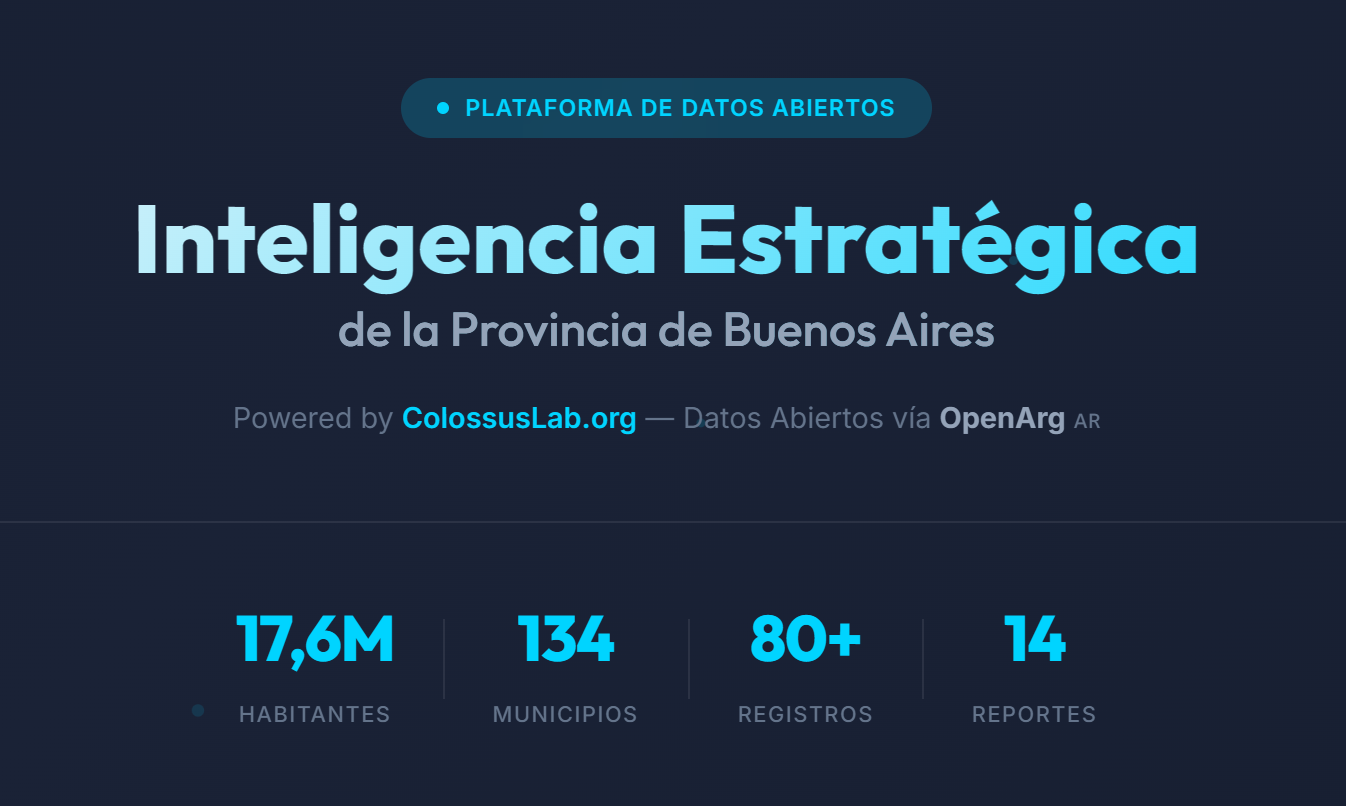
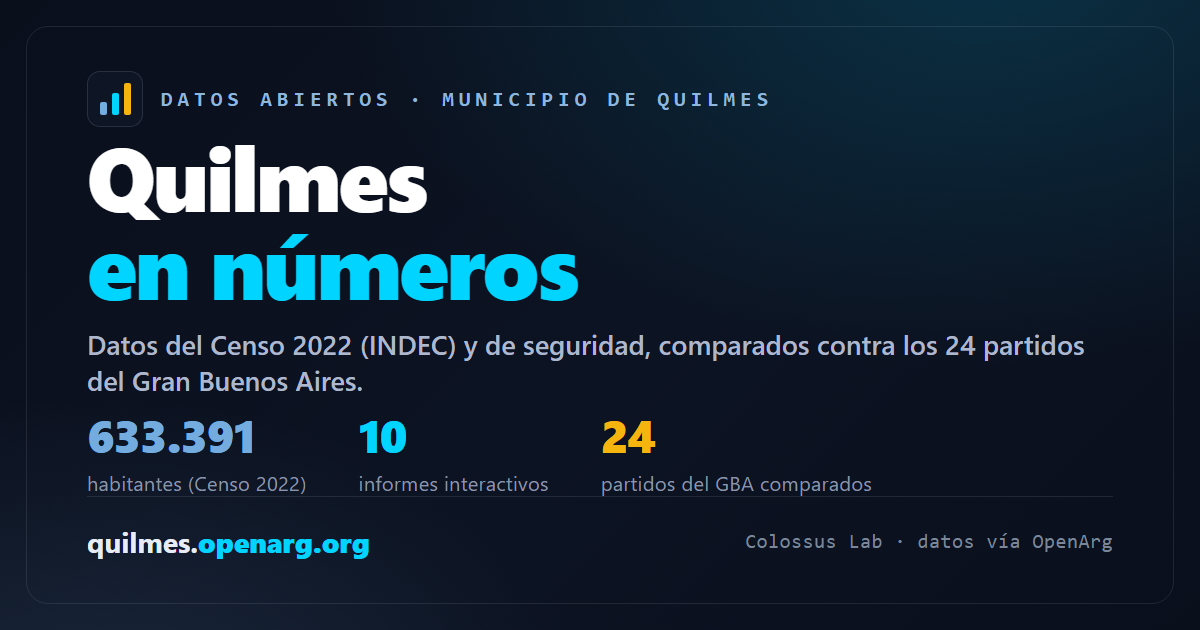
Revisión final: fix de datos SNIC, performance, OG image y a11y
Datos:
- SNIC estafas virtuales: el regex /Estafas.*virtual/i contaba dos
  categorías (incluía "no incluye virtuales"). Ahora /virtualmente/i →
  337 en 2024 (antes 720). Prosa actualizada.
- Víctimas SNIC 2024 unificadas a 5.384 (varones 51,0% · mujeres 46,1% ·
  sin determinar 2,9%); KPI de % corregido sobre el total real.
- estructura.md: promedio de fecundidad 1,4 (no 1,0).

Performance:
- Lazy-load de ReportView + manualChunks (nivo/markdown/react-vendor):
  la Landing baja de ~245 a ~95 kB gzip; Nivo y markdown se cargan al
  abrir un informe. target: es2022.
- Quitadas dependencias sin uso (@nivo/geo, @nivo/heatmap, @nivo/tooltip,
  d3-geo, topojson-client, papaparse + @types); xlsx → devDependencies.

UI / SEO / a11y:
- Nuevo og-image.png 1200×630 de Quilmes (preview de WhatsApp/Twitter).
- favicon.svg propio (antes /favicon.ico daba 404).
- Meta tags y title realineados al enfoque ciudadano.
- Fix del warning de React (background→backgroundImage) en ReportView
  y KPICounter.
- Drawer mobile: cierre con Escape + aria-expanded/aria-controls.
- .well-known/security.txt y engines.node.

diff --git a/index.html b/index.html
@@ -3,30 +3,31 @@
 <head>
   <meta charset="UTF-8" />
   <meta name="viewport" content="width=device-width, initial-scale=1.0" />
-  <meta name="description" content="Dashboard Estratégico del Municipio de Quilmes — Análisis interactivo de datos abiertos para la toma de decisiones municipales." />
+  <meta name="description" content="Quilmes en números: 10 informes de datos abiertos sobre el partido — Censo 2022 (INDEC), seguridad (SNIC) y muertes viales (SAT), comparados contra los 24 partidos del Gran Buenos Aires." />
   <link rel="canonical" href="https://quilmes.openarg.org" />
-  <title>Dashboard Quilmes — Inteligencia Estratégica Municipal</title>
+  <title>Dashboard Quilmes — Datos abiertos del partido</title>
 
   <!-- Open Graph Meta Tags para WhatsApp, Facebook, LinkedIn, etc. -->
-  <meta property="og:title" content="Dashboard Quilmes - Inteligencia Estratégica Municipal" />
-  <meta property="og:description" content="Plataforma de datos abiertos con análisis interactivo del Municipio de Quilmes." />
+  <meta property="og:title" content="Dashboard Quilmes — Datos abiertos del partido" />
+  <meta property="og:description" content="Quilmes en números: 10 informes sobre el partido con datos del Censo 2022 y estadísticas de seguridad, comparados contra los 24 partidos del GBA." />
   <meta property="og:image" content="https://quilmes.openarg.org/og-image.png" />
   <meta property="og:image:width" content="1200" />
   <meta property="og:image:height" content="630" />
   <meta property="og:type" content="website" />
   <meta property="og:url" content="https://quilmes.openarg.org" />
+  <meta property="og:locale" content="es_AR" />
 
   <!-- Twitter Meta Tags -->
   <meta name="twitter:card" content="summary_large_image" />
-  <meta name="twitter:title" content="Dashboard Quilmes - Inteligencia Estratégica Municipal" />
-  <meta name="twitter:description" content="Plataforma de datos abiertos con análisis interactivo del Municipio de Quilmes." />
+  <meta name="twitter:title" content="Dashboard Quilmes — Datos abiertos del partido" />
+  <meta name="twitter:description" content="Quilmes en números: 10 informes sobre el partido con datos del Censo 2022 y estadísticas de seguridad." />
   <meta name="twitter:image" content="https://quilmes.openarg.org/og-image.png" />
   <link rel="preconnect" href="https://fonts.googleapis.com" />
   <link rel="preconnect" href="https://fonts.gstatic.com" crossorigin />
   <link href="https://fonts.googleapis.com/css2?family=Inter:wght@300;400;500;600;700&family=Outfit:wght@500;600;700;800&family=Familjen+Grotesk:wght@400;500;600;700&family=JetBrains+Mono:wght@400;500;700&display=swap" rel="stylesheet" />
 
   <!-- Favicon y Apple Touch Icon -->
-  <link rel="icon" type="image/png" href="/favicon.ico" />
+  <link rel="icon" type="image/svg+xml" href="/favicon.svg" />
   <link rel="apple-touch-icon" href="/og-image.png" />
 </head>
 <body>

diff --git a/src/App.tsx b/src/App.tsx
@@ -1,11 +1,16 @@
 import { BrowserRouter, Routes, Route, useLocation } from 'react-router-dom';
 import { Layout } from './components/layout/Layout';
 import { Landing } from './pages/Landing';
-import { ReportView } from './pages/ReportView';
 import { IntroHero } from './components/ui/IntroHero';
 import { useFirstVisit } from './hooks/useFirstVisit';
-import React from 'react';
+import React, { lazy, Suspense } from 'react';
 import { Analytics } from '@vercel/analytics/react';
+
+// ReportView arrastra Nivo + react-markdown (la parte pesada del bundle).
+// Lo cargamos lazy para que la Landing ("/") no descargue nada de eso.
+const ReportView = lazy(() =>
+  import('./pages/ReportView').then(m => ({ default: m.ReportView })),
+);
 
 // Solo mostramos el intro en la home. En rutas profundas (alguien
 // compartió un link a un informe) se muestra directo el contenido.
@@ -84,10 +89,18 @@ export default function App() {
       <BrowserRouter>
         <FirstVisitIntro />
         <Layout>
-          <Routes>
-            <Route path="/" element={<Landing />} />
-            <Route path="/*" element={<ReportView />} />
-          </Routes>
+          <Suspense
+            fallback={
+              <div className="text-center py-20" style={{ color: 'var(--text-tertiary)' }}>
+                Cargando…
+              </div>
+            }
+          >
+            <Routes>
+              <Route path="/" element={<Landing />} />
+              <Route path="/*" element={<ReportView />} />
+            </Routes>
+          </Suspense>
         </Layout>
       </BrowserRouter>
       <Analytics />

diff --git a/src/components/layout/Layout.tsx b/src/components/layout/Layout.tsx
@@ -42,7 +42,7 @@ export function Layout({ children }: { children: React.ReactNode }) {
 
 function TopBar() {
   const location = useLocation();
-  const { toggleSidebar } = useStore();
+  const { toggleSidebar, sidebarOpen } = useStore();
   const isHome = location.pathname === '/';
 
   return (
@@ -66,6 +66,8 @@ function TopBar() {
             <button
               onClick={toggleSidebar}
               aria-label="Menú de navegación"
+              aria-expanded={sidebarOpen}
+              aria-controls="mobile-nav"
               className="p-2 rounded-lg hover:opacity-80 transition-opacity lg:hidden"
               style={{ color: 'var(--text-secondary)' }}
             >
@@ -124,6 +126,15 @@ function Sidebar() {
   const poblacion = getPoblacionReports();
   const sectoriales = getSectorialReports();
 
+  // Cerrar con Escape (accesibilidad por teclado).
+  useEffect(() => {
+    const onKey = (e: KeyboardEvent) => {
+      if (e.key === 'Escape') setSidebarOpen(false);
+    };
+    document.addEventListener('keydown', onKey);
+    return () => document.removeEventListener('keydown', onKey);
+  }, [setSidebarOpen]);
+
   return (
     <>
       {/* Backdrop */}
@@ -141,6 +152,8 @@ function Sidebar() {
       />
       {/* Panel */}
       <aside
+        id="mobile-nav"
+        aria-label="Navegación de informes"
         className="slide-in-left"
         style={{
           position: 'fixed',

diff --git a/src/components/ui/KPICounter.tsx b/src/components/ui/KPICounter.tsx
@@ -72,9 +72,9 @@ export function KPICounter({ value, formatted, label, unit, status }: KPICounter
       <span
         className="kpi-value"
         style={status === 'critical'
-          ? { background: 'linear-gradient(135deg, #ef4444, #f97316)', WebkitBackgroundClip: 'text', WebkitTextFillColor: 'transparent', backgroundClip: 'text' }
+          ? { backgroundImage: 'linear-gradient(135deg, #ef4444, #f97316)', WebkitBackgroundClip: 'text', WebkitTextFillColor: 'transparent', backgroundClip: 'text' }
           : status === 'good'
-            ? { background: 'linear-gradient(135deg, #10b981, #06b6d4)', WebkitBackgroundClip: 'text', WebkitTextFillColor: 'transparent', backgroundClip: 'text' }
+            ? { backgroundImage: 'linear-gradient(135deg, #10b981, #06b6d4)', WebkitBackgroundClip: 'text', WebkitTextFillColor: 'transparent', backgroundClip: 'text' }
             : undefined
         }
       >

diff --git a/vite.config.ts b/vite.config.ts
@@ -12,4 +12,19 @@ export default defineConfig({
       '@': '/src',
     },
   },
+  build: {
+    target: 'es2022',
+    rollupOptions: {
+      output: {
+        // Separamos vendors pesados en chunks propios: mejor caching entre
+        // deploys y, combinado con el lazy-load de ReportView, Nivo/markdown
+        // solo se descargan al abrir un informe (no en la Landing).
+        manualChunks: {
+          nivo: ['@nivo/bar', '@nivo/line', '@nivo/pie', '@nivo/core'],
+          markdown: ['react-markdown', 'remark-gfm'],
+          'react-vendor': ['react', 'react-dom', 'react-router-dom'],
+        },
+      },
+    },
+  },
 })

diff --git a/src/pages/ReportView.tsx b/src/pages/ReportView.tsx
@@ -68,7 +68,7 @@ function ReportContent({ reportEntry }: { reportEntry: ReportEntry }) {
                 className="report-hero-title"
                 style={{
                   fontFamily: 'var(--font-heading)',
-                  background: `linear-gradient(135deg, ${reportEntry.color}, var(--accent-cyan))`,
+                  backgroundImage: `linear-gradient(135deg, ${reportEntry.color}, var(--accent-cyan))`,
                   WebkitBackgroundClip: 'text',
                   WebkitTextFillColor: 'transparent',
                   backgroundClip: 'text',

diff --git a/public/reports/seguridad/snic.md b/public/reports/seguridad/snic.md
@@ -14,7 +14,7 @@
 |---|---:|
 | **Hechos delictivos registrados** | **18.598** |
 | **Tasa total de hechos** (suma de tasas individuales por 100K) | **2.683,1 / 100K** |
-| Víctimas registradas | 5.226 |
+| Víctimas registradas | 5.384 |
 | Variación interanual (2024 vs 2023) | **−8,5 %** |
 | Variación quinquenal (2024 vs 2019) | **+19,3 %** |
 | Variación 25 años en tasa (2024 vs 2000) | **+10,7 %** |
@@ -66,11 +66,11 @@ Las **estafas y defraudaciones asistidas virtualmente** son una categoría de in
 
 | Año | Hechos en Quilmes |
 |---:|---:|
-| 2023 | 629 |
-| **2024** | **720** |
-| Variación interanual | **+14,5 %** |
+| 2023 | 36 |
+| **2024** | **337** |
+| Variación interanual | **+836 %** |
 
-En 2024 se registraron **720 estafas virtuales en Quilmes, 14,5 % más que en 2023**. Por su incorporación reciente, no existe una serie larga que permita comparaciones de décadas, pero el crecimiento interanual marca la dirección del segmento.
+En 2024 se registraron **337 estafas virtuales en Quilmes, casi diez veces más que las 36 de 2023**. Es una categoría de incorporación muy reciente al nomenclador: la serie es todavía corta y los valores absolutos chicos, pero el salto interanual marca la irrupción del segmento.
 
 ---
 
@@ -96,14 +96,15 @@ La cantidad de homicidios dolosos en Quilmes muestra una tendencia descendente d
 
 ## 5. Víctimas registradas
 
-En 2024 el SNIC registró **5.226 víctimas en Quilmes**:
+En 2024 el SNIC registró **5.384 víctimas en Quilmes**:
 
 | Sexo | Víctimas | % |
 |---|---:|---:|
-| Varones | 2.745 | 52,5 % |
-| Mujeres | 2.481 | **47,5 %** |
+| Varones | 2.745 | 51,0 % |
+| Mujeres | 2.481 | **46,1 %** |
+| Sin determinar | 158 | 2,9 % |
 
-Las mujeres son el **47,5 % del total de víctimas**. La serie de víctimas también muestra el escalón ascendente reciente: de 3.005 en 2019 a un máximo de 5.442 en 2021, con 5.384 en 2024, cerca de los valores más altos del período.
+Las mujeres representan el **46,1 % del total de víctimas** y los varones el 51,0 % (el resto queda sin sexo registrado). La serie de víctimas muestra el escalón ascendente reciente: de 3.005 en 2019 a un máximo de 5.442 en 2021, con 5.384 en 2024, cerca de los valores más altos del período.
 
 ---
 
@@ -133,13 +134,13 @@ En la **tasa de homicidios** —relativamente robusta a la sub-denuncia, porque 
 
 2. **El registro de 2024 baja respecto del máximo de 2023**: los 18.598 hechos están 8,5 % por debajo de los 20.329 de 2023, el pico de toda la serie. Aun así, el nivel sigue 19,3 % por encima del de 2019.
 
-3. **Las estafas virtuales crecen**: 720 hechos en 2024, 14,5 % más que en 2023. Es una categoría de incorporación reciente al nomenclador, todavía chica en términos absolutos.
+3. **Las estafas virtuales irrumpen**: 337 hechos en 2024 contra 36 en 2023. Es una categoría de incorporación reciente al nomenclador, todavía chica en términos absolutos pero de crecimiento abrupto.
 
 4. **En volumen absoluto Quilmes es de los más altos del GBA, pero en tasa queda por debajo del promedio**: 2° en hechos absolutos y 2° en robos, pero 16° de 24 en tasa total por 100K. El contraste se explica por el gran tamaño poblacional del partido.
 
 5. **La tasa de homicidios dolosos (4,90 / 100K) ubica a Quilmes 10° de 24**, levemente por encima del promedio simple del conurbano (4,47 / 100K). En cantidad absoluta son 34 homicidios, cinco menos que en 2023, en línea con la tendencia descendente de largo plazo de este indicador.
 
-6. **Las mujeres son el 47,5 % de las víctimas registradas en Quilmes** en 2024 (2.481 de 5.226).
+6. **Las mujeres son el 46,1 % de las víctimas registradas en Quilmes** en 2024 (2.481 de 5.384).
 
 ---
 

diff --git a/public/reports/poblacion/estructura.md b/public/reports/poblacion/estructura.md
@@ -70,7 +70,7 @@ Dos patrones:
 
 ## 4. Fecundidad: la trayectoria reproductiva por cohorte
 
-El cuadro 2.2.102 publica la cantidad de hijos por mujer de 14 a 49 años en Quilmes. El **promedio agregado es de 1,0 hijo por mujer**, pero ese número es engañoso por sí solo: incluye a las cohortes jóvenes que todavía no completaron su trayectoria reproductiva. La lectura rigurosa se hace **por cohorte completada**.
+El cuadro 2.2.102 publica la cantidad de hijos por mujer de 14 a 49 años en Quilmes. El **promedio agregado es de 1,4 hijos por mujer**, pero ese número es engañoso por sí solo: incluye a las cohortes jóvenes que todavía no completaron su trayectoria reproductiva. La lectura rigurosa se hace **por cohorte completada**.
 
 ### Fecundidad por cohorte
 
